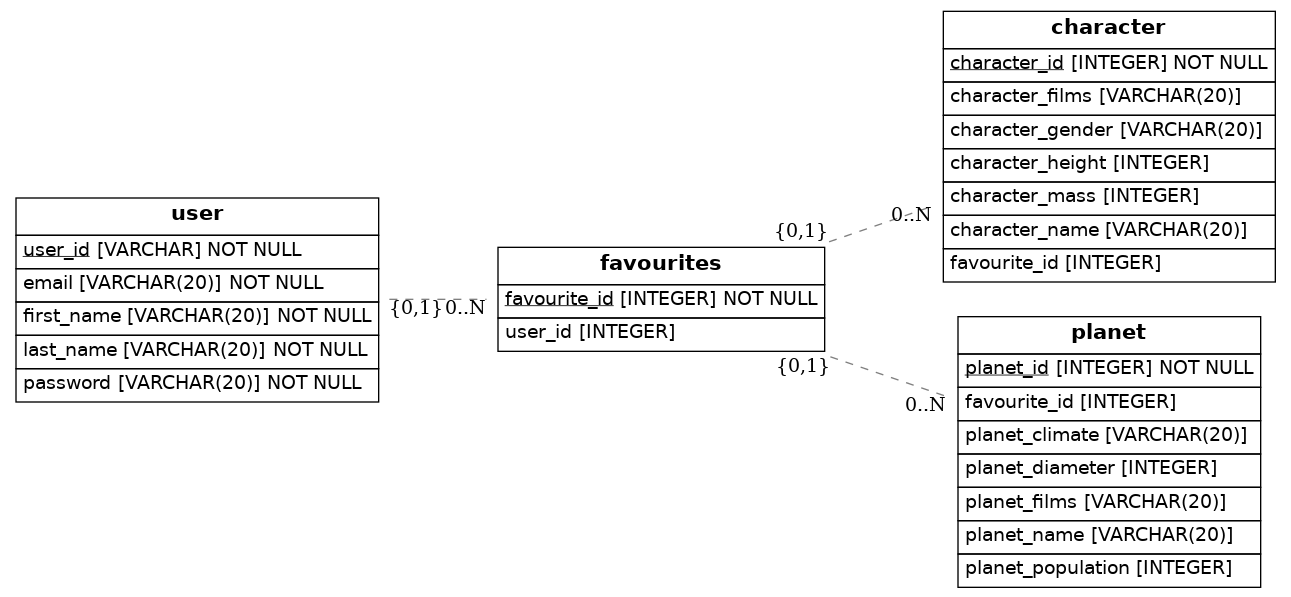
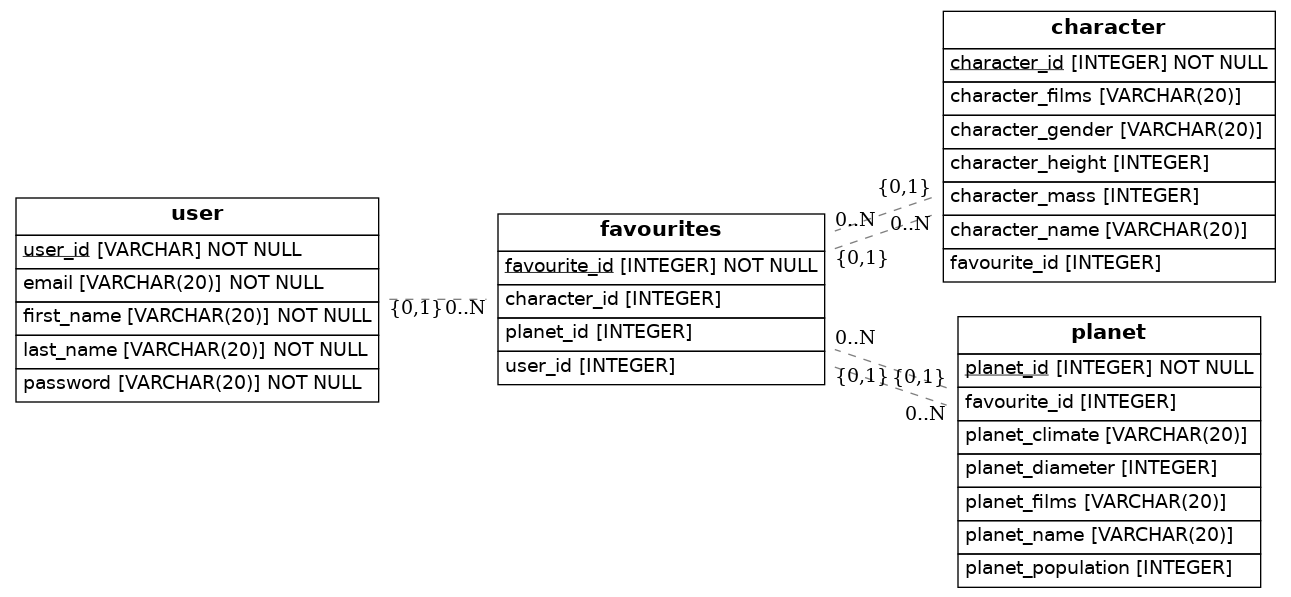
final v1

Changed region(s): [[0.3718, 0.3015, 0.7126, 0.5126], [0.3718, 0.5427, 0.7436, 0.6935], [0.6507, 0.5427, 0.6816, 0.5729]]

diff --git a/src/models.py b/src/models.py
@@ -40,11 +40,11 @@ class Favourites(Base):
     __tablename__ = 'favourites'
     favourite_id = Column(Integer, primary_key=True)
     user_id = Column(Integer, ForeignKey('user.user_id'))
-    # character_id = Column(Integer, ForeignKey('character.character_id'))
-    # planet_id = Column(Integer, ForeignKey('planet.planet_id'))
+    character_id = Column(Integer, ForeignKey('character.character_id'))
+    planet_id = Column(Integer, ForeignKey('planet.planet_id'))
     user = relationship(User)
-    # character = relationship(Character)
-    # planet = relationship(Planets)
+    character = relationship("Character")
+    planet = relationship("Planets")
 
 class Character(Base):
     __tablename__ = 'character'
